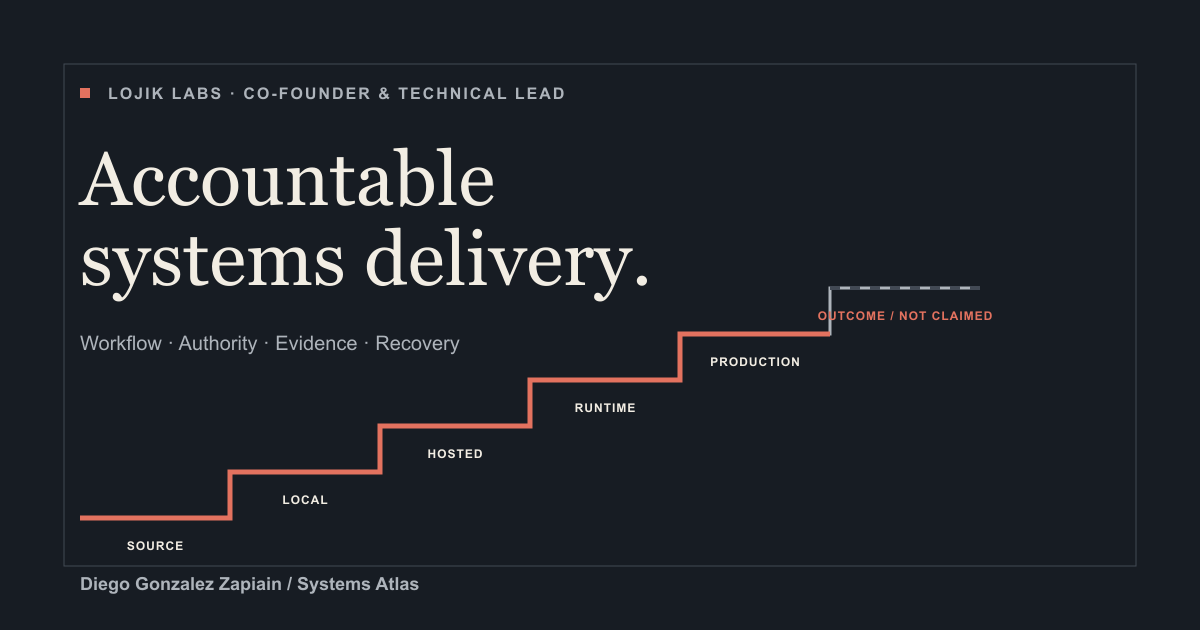
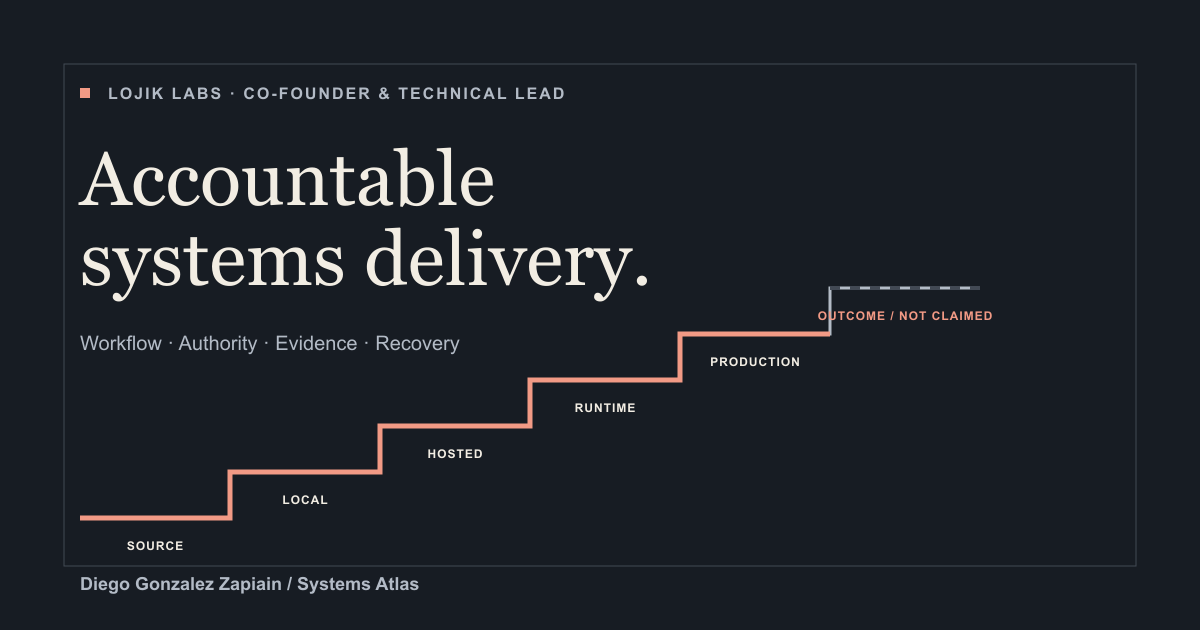
fix: enforce accessible dark-surface contrast

Changed region(s): [[0.185, 0.5127, 0.6783, 0.8143], [0.6783, 0.4825, 0.8325, 0.5127], [0.0617, 0.8143, 0.185, 0.8444]]

diff --git a/assets/css/tokens.css b/assets/css/tokens.css
@@ -21,14 +21,14 @@
   --blueprint: oklch(44.3% 0.083 248);
   --vermilion: #bd4633;
   --vermilion: oklch(53.8% 0.14 34);
-  --vermilion-light: #e3725f;
-  --vermilion-light: oklch(69% 0.13 34);
+  --vermilion-light: #f29a85;
+  --vermilion-light: oklch(77% 0.11 34);
   --moss: #64705f;
   --moss: oklch(50.5% 0.036 132);
   --night-text: #f2ede3;
   --night-text: oklch(94.8% 0.015 76);
-  --night-soft: #aeb4bb;
-  --night-soft: oklch(76% 0.018 255);
+  --night-soft: #b3bbc6;
+  --night-soft: oklch(79% 0.018 255);
   --night-rule: #424954;
   --night-rule: oklch(36.5% 0.024 255);
 

diff --git a/assets/css/pages.css b/assets/css/pages.css
@@ -361,6 +361,12 @@
   text-transform: uppercase;
 }
 
+.case-note a {
+  min-height: 1.5rem;
+  display: inline-flex;
+  align-items: center;
+}
+
 .case-diagram {
   padding-block: var(--space-16);
   border-top: 1px solid var(--rule);

diff --git a/assets/css/components.css b/assets/css/components.css
@@ -416,6 +416,10 @@
   background: var(--carbon);
 }
 
+.site-footer .kicker {
+  color: var(--night-soft);
+}
+
 .footer-inner {
   padding-block: clamp(var(--space-24), 10vw, var(--space-40)) var(--space-8);
 }
